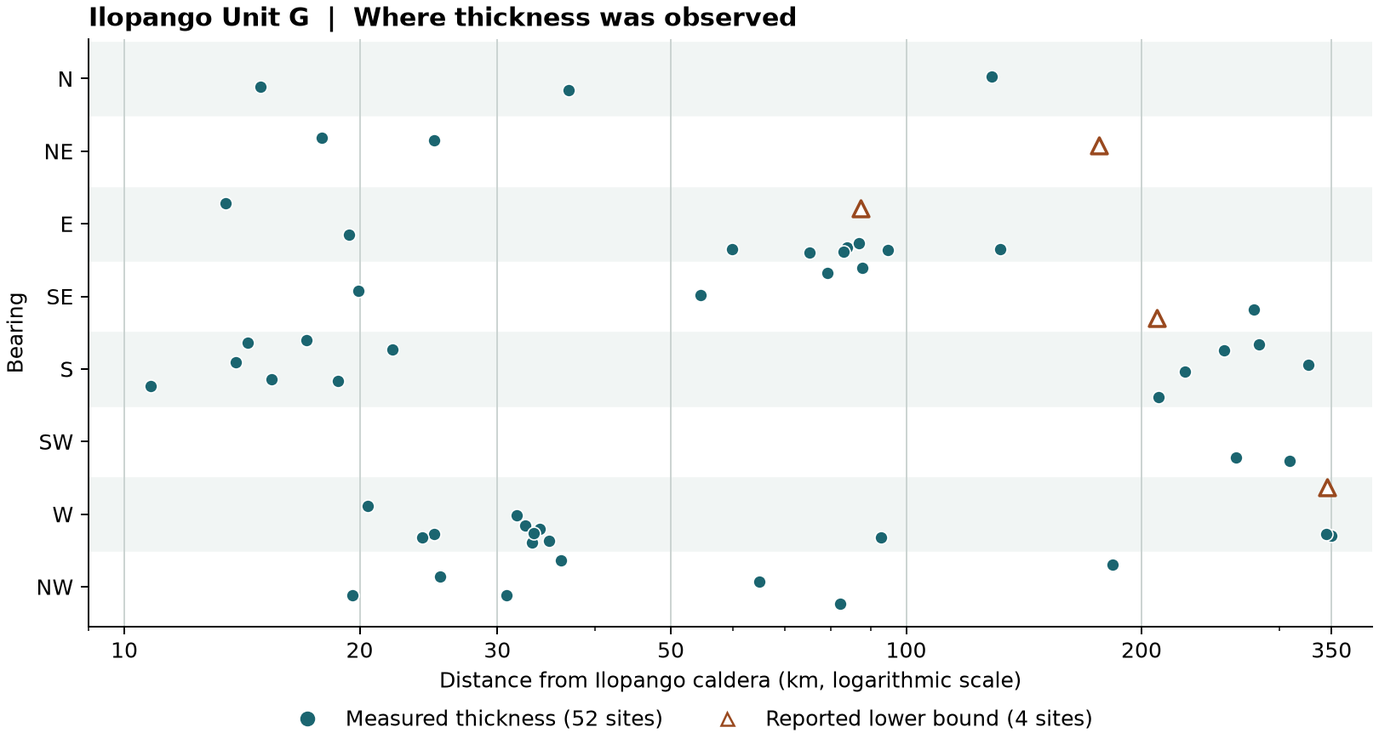
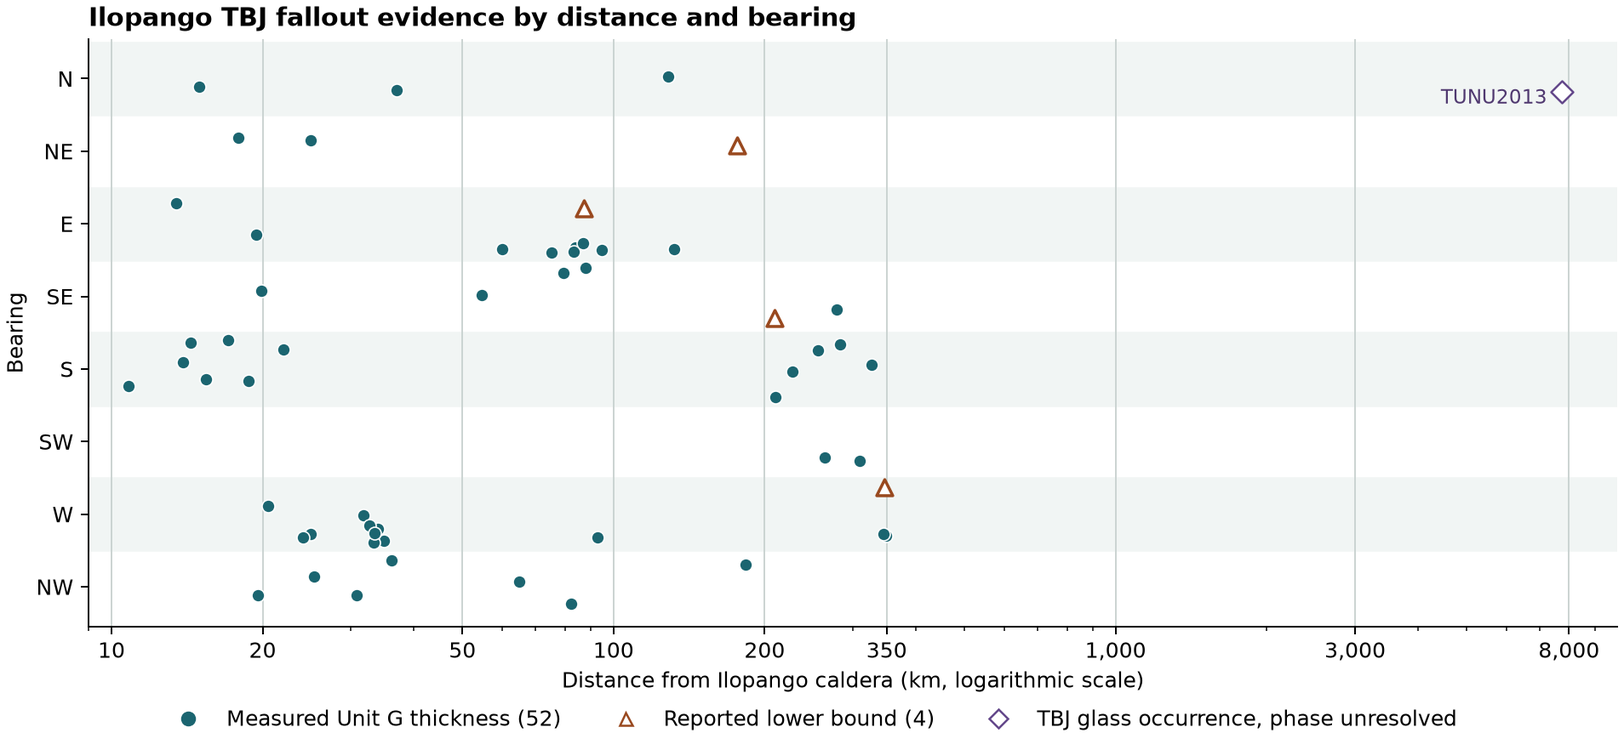
Record the Greenland TBJ occurrence and qualify the Unit G volume interval

diff --git a/benchmarks/ilopango.py b/benchmarks/ilopango.py
@@ -20,6 +20,7 @@ CORES = SOURCES / "smith-2020-cores.csv"
[3 lines of base64/hex data omitted]
+TUNU_LATITUDE, TUNU_LONGITUDE = 78.04, -33.88
 VENT = (-89.053, 13.672)
 GEOD = Geod(ellps="WGS84")
 SECTORS = ("N", "NE", "E", "SE", "S", "SW", "W", "NW")
@@ -106,12 +107,21 @@ def ledger():
                 units_at_section="distal TBJ",total_tbj_cm=core["thickness_cm"],unit_g_cm="",
                 kind="measurement",fitted_cm=core["thickness_cm"],
                 decision="Directly reported distal bed; the authors used it in the co-ignimbrite reconstruction."))
+    rows.append(dict(
+        evidence_id="S20-TUNU2013", source="Smith et al. 2020, polar ice-core results, Fig. 4, Table 2 and Methods",
+        source_row="", site_id="TUNU2013", site="TUNU2013, northeast Greenland", setting="ice core",
+        latitude_as_published=f"{TUNU_LATITUDE} N", longitude_as_published=f"{abs(TUNU_LONGITUDE)} W",
+        latitude=TUNU_LATITUDE, longitude=TUNU_LONGITUDE, units_at_section="TBJ glass, eruptive phase unresolved",
+        total_tbj_cm="", unit_g_cm="", kind="occurrence_only", fitted_cm="",
+        decision="Glass chemistry identifies a TBJ occurrence. The meltwater sample does not resolve the eruptive "
+                 "phase or give bulk ash mass per unit ground area. No Unit G thickness or bound enters the fit.",
+    ))
     for row in rows:
         az, _, metres = GEOD.inv(*VENT, row["longitude"], row["latitude"])
         row["bearing_deg"] = round(az % 360, 4)
         row["distance_km"] = round(metres/1000, 4)
         row["sector"] = SECTORS[int(((az+22.5) % 360)//45)]
-    if len(rows) != 109 or len({r["evidence_id"] for r in rows}) != len(rows):
+    if len(rows) != 110 or len({r["evidence_id"] for r in rows}) != len(rows):
         raise ValueError("Source rows must be unique and exhaustive.")
     return rows
 
@@ -141,7 +151,7 @@ def angular_gap(angles):
 
 def products():
     rows = ledger()
-    accepted = [r for r in rows if r["kind"]]
+    accepted = [r for r in rows if r["kind"] in {"measurement", "lower_limit"}]
     if len({(r["longitude"], r["latitude"]) for r in accepted}) != len(accepted):
         raise ValueError("Repeated accepted coordinates require a site decision.")
     for i, r in enumerate(accepted, 2):
@@ -178,15 +188,14 @@ def products():
 
 
 def verify_manuscript(path):
-    """Read the two published core measurements from the accepted manuscript's text layer."""
+    """Check the two measured beds and the Greenland occurrence against the accepted manuscript."""
     if digest(path) != MANUSCRIPT_HASH:
         raise ValueError("Expected the Oxford accepted manuscript listed in the source guide.")
-    page = subprocess.check_output(
-        ["pdftotext", "-f", "7", "-l", "7", "-layout", str(path.resolve()), "-"], text=True
-    )
+    manuscript = subprocess.check_output(["pdftotext", "-layout", str(path.resolve()), "-"], text=True)
+    text = " ".join(manuscript.split())
     paragraph = re.search(
         r"additional two points where (\d+) cm of ash was recorded in cores: (.+?) \(20\)",
-        " ".join(page.split()),
+        text,
     )
     if paragraph is None:
         raise ValueError("Could not locate the two-core observation.")
@@ -196,6 +205,9 @@ def verify_manuscript(path):
                     for r in csv.DictReader(stream)]
     if len(printed) != 2 or [(*row, paragraph[1]) for row in printed] != recorded:
         raise ValueError("A core coordinate or thickness differs from the published paragraph.")
+    tunu = re.search(r"northeast Greenland \(([\d.]+)[◦°o]N, ([\d.]+)[◦°o]W; 2105 m", text)
+    if tunu is None or (float(tunu[1]), -float(tunu[2])) != (TUNU_LATITUDE, TUNU_LONGITUDE):
+        raise ValueError("TUNU2013 coordinates differ from the ice-core methods.")
 
 
 def coverage_figure():
@@ -204,30 +216,38 @@ def coverage_figure():
 
     with (AUDIT / "selection.csv").open(newline="") as stream:
         rows = [row for row in csv.DictReader(stream) if row["kind"]]
-    fig, ax = plt.subplots(figsize=(9, 4.9), layout="constrained")
+    fig, ax = plt.subplots(figsize=(10.6, 4.9), layout="constrained")
+    counts = Counter(row["kind"] for row in rows)
     for row in rows:
         index = SECTORS.index(row["sector"])
         within_sector = (float(row["bearing_deg"]) - index * 45 + 180) % 360 - 180
-        # Place near-coincident sites at their measured angular offsets.
         y = index + within_sector / 56
-        lower = row["kind"] == "lower_limit"
-        ax.scatter(float(row["distance_km"]), y, s=57 if lower else 36,
-                   marker="^" if lower else "o", facecolor="white" if lower else "#1b6570",
-                   edgecolor="#99491f" if lower else "white", linewidth=1.4 if lower else .65,
-                   zorder=3)
+        distance = float(row["distance_km"])
+        if row["kind"] == "occurrence_only":
+            ax.scatter(distance, y, marker="D", s=54, facecolor="white", edgecolor="#63478a", zorder=3)
+            ax.annotate(row["site_id"], (distance, y), xytext=(-7, -3), textcoords="offset points",
+                        ha="right", va="center", color="#503970", fontsize=9)
+        else:
+            lower = row["kind"] == "lower_limit"
+            ax.scatter(distance, y, s=57 if lower else 36, marker="^" if lower else "o",
+                       facecolor="white" if lower else "#1b6570", edgecolor="#99491f" if lower else "white",
+                       linewidth=1.4 if lower else .65, zorder=3)
     ax.set_xscale("log")
-    ax.set_xticks([10, 20, 30, 50, 100, 200, 350], labels=["10","20","30","50","100","200","350"])
-    ax.set(xlim=(9, 395), ylim=(7.55, -.55), yticks=range(8), yticklabels=SECTORS,
+    ax.set_xticks([10, 20, 50, 100, 200, 350, 1000, 3000, 8000],
+                  labels=["10", "20", "50", "100", "200", "350", "1,000", "3,000", "8,000"])
+    ax.set(xlim=(9, 10000), ylim=(7.55, -.55), yticks=range(8), yticklabels=SECTORS,
            xlabel="Distance from Ilopango caldera (km, logarithmic scale)", ylabel="Bearing")
     ax.grid(axis="x", color="#c9d2d0", linewidth=.75)
     for i in range(0, 8, 2):
         ax.axhspan(i-.5, i+.5, color="#f1f5f4", zorder=0)
     ax.spines[["right","top"]].set_visible(False)
-    ax.set_title("Ilopango Unit G  |  Where thickness was observed", loc="left", weight="bold")
-    handles = [Line2D([], [], ls="", marker="o", color="#1b6570", label="Measured thickness (52 sites)"),
+    ax.set_title("Ilopango TBJ fallout evidence by distance and bearing", loc="left", weight="bold")
+    handles = [Line2D([], [], ls="", marker="o", color="#1b6570", label=f"Measured Unit G thickness ({counts['measurement']})"),
                Line2D([], [], ls="", marker="^", markerfacecolor="white", color="#99491f",
-                      label="Reported lower bound (4 sites)")]
-    fig.legend(handles=handles, loc="outside lower center", ncols=2, frameon=False)
+                      label=f"Reported lower bound ({counts['lower_limit']})"),
+               Line2D([], [], ls="", marker="D", markerfacecolor="white", color="#63478a",
+                      label="TBJ glass occurrence, phase unresolved")]
+    fig.legend(handles=handles, loc="outside lower center", ncols=3, frameon=False)
     fig.savefig(AUDIT / "coverage.png", dpi=180)
     plt.close(fig)
 
@@ -237,7 +257,7 @@ def main():
     parser.add_argument("--prepare",action="store_true",help="Write the four reproducible audit products.")
     parser.add_argument("--figure", action="store_true", help="Draw coverage from the verified site ledger.")
     parser.add_argument("--verify-manuscript", type=Path, metavar="PDF",
-                        help="Check the two distal core readings against the Oxford manuscript.")
+                        help="Check both distal thickness readings and the Greenland site coordinates against the Oxford manuscript.")
     args=parser.parse_args()
     if args.verify_manuscript:
         verify_manuscript(args.verify_manuscript)
@@ -248,7 +268,9 @@ def main():
             raise ValueError(f"Saved file differs from workbook replay: {path.relative_to(ROOT)}")
     if args.figure:
         coverage_figure()
-    print("Verified Ilopango workbook rows, printed core locations, thicknesses, limits and geographic coverage.")
+    print("Verified the Ilopango source ledger, accepted thicknesses and bounds, and geographic coverage.")
+    if args.verify_manuscript:
+        print("Matched both 3 cm beds and the TUNU2013 site coordinates to the Oxford manuscript.")
 
 
 if __name__ == "__main__":

diff --git a/tests/test_report_cartography.py b/tests/test_report_cartography.py
@@ -133,6 +133,23 @@ def test_audited_case_leads_with_matching_fits_then_site_evidence():
     assert "| Uncertain fan direction | Comparable visible fallout beds | 40.7 | 59.0 | 28.5–149.7 |" in section
 
 
+def test_volume_interval_and_geographic_warnings_are_independent(monkeypatch):
+    from src.empirical_isopach.visualization import comparison
+
+    home = Path(__file__).resolve().parents[1] / "eruptions/ilopango-tbj/results"
+    reports = comparison.comparison_reports(home)
+    spherical = reports[2]
+    monkeypatch.setattr(comparison, "comparison_reports", lambda _: reports)
+    for volume_ok, prediction_ok in ((False, True), (True, False)):
+        spherical["fits"]["baseline"]["diagnostics"]["passed"] = volume_ok
+        spherical["validation"]["all_fits_passed_diagnostics"] = prediction_ok
+        section = comparison.comparison_section(home)
+        row = next(line for line in section.splitlines() if line.startswith("| [Spherical mixture]"))
+        _, _, _, interval, score, _, _ = row.split("|")
+        assert ("provisional" in interval) == (not volume_ok)
+        assert ("†" in score) == (not prediction_ok)
+
+
 def test_full_run_opens_with_four_fits_and_retains_regional_detail(tmp_path, monkeypatch):
     from src.empirical_isopach.visualization import comparison
 

diff --git a/src/empirical_isopach/visualization/comparison.py b/src/empirical_isopach/visualization/comparison.py
@@ -257,7 +257,11 @@ def comparison_section(home, *, prefix=""):
     centre = ensemble["volume"]
     volumes = centre["coherent_volume_km3"]
     measured = sum(centre["median_map_parts_by_sector_km3"][0])/centre["median_map_km3"]
-    mixture = spherical["fits"]["baseline"]["volume"]
+    spherical_fit = spherical["fits"]["baseline"]
+    mixture = spherical_fit["volume"]
+    spherical_interval = f"{mixture['lower95']:,.1f}–{mixture['upper95']:,.1f}"
+    if not spherical_fit["diagnostics"]["passed"]:
+        spherical_interval += " **(provisional)**"
     summary = []
     for key, label in REGIONAL.items():
         model = regional["methods"][key]
@@ -274,7 +278,7 @@ def comparison_section(home, *, prefix=""):
          f"{volumes['lower95']:,.1f}–{volumes['upper95']:,.1f}"),
         (f"[Spherical mixture]({prefix}spherical-mixture/README.md)",
          f"Whole-Earth volume median **{mixture['median']:,.1f}**",
-         f"{mixture['lower95']:,.1f}–{mixture['upper95']:,.1f}"),
+         spherical_interval),
     ]
     performance = metrics(regional, ensemble, spherical)
     lines = [

diff --git a/eruptions/ilopango-tbj/README.md b/eruptions/ilopango-tbj/README.md
@@ -1,6 +1,6 @@
 # Ilopango Tierra Blanca Joven, Unit G
 
-The widespread upper co-ignimbrite ash has **52 measured thicknesses and four reported lower bounds**. The sites extend from 11 to 349 km from Ilopango caldera in El Salvador. All four models use the same accepted observations. [Thickness data](../../data/eruptions/Ilopango_TBJ_Unit_G.csv) · [Original sources](../../data/sources/ilopango-tbj/README.md) · [109-row audit and geographic coverage](../../data/audits/Ilopango-TBJ/README.md)
+The widespread upper co-ignimbrite ash has **52 measured thicknesses and four reported lower bounds**. The fitted sites extend from 11 to 349 km from Ilopango caldera in El Salvador. All four models use the same accepted observations. [Thickness data](../../data/eruptions/Ilopango_TBJ_Unit_G.csv) · [Original sources](../../data/sources/ilopango-tbj/README.md) · [Source decisions and geographic coverage](../../data/audits/Ilopango-TBJ/README.md)
 
 ## Four matched thickness-only fits
 
@@ -15,7 +15,7 @@ All four maps use the same frame, contour levels and thickness scale. Thickness 
 | GP ensemble | Hull mean **24.99** | 17.93–33.81 | 1.343 | 98.1% |
 | Cubic spline | Hull mean **26.75** | 22.61–31.55 | 1.462 | 92.3% |
 | [Directional ensemble · uncertain fan direction](results/directional/README.md) | Whole-Earth median map **40.8** · volume median 59.4 | 30.1–384.8 | 1.528 | 92.3% |
-| [Spherical mixture](results/spherical-mixture/README.md) | Whole-Earth volume median **190.9** | 62.9–3,300.8 | 1.225 | 94.2% |
+| [Spherical mixture](results/spherical-mixture/README.md) | Whole-Earth volume median **190.9** | 62.9–3,300.8 **(provisional)** | 1.225 | 94.2% |
 
 A lower negative log predictive score means better prediction across withheld regions. Each region gets equal weight. Coverage is the share of exact held-out observations inside the 95% predictive interval.
 
@@ -58,24 +58,23 @@ The principal fit above uses quantitative thicknesses and bounds. The measured-f
 
 [Measured-fan maps, held-out tests and site evidence](results/directional/bearing/README.md)
 
-
 ## Reading the global uncertainty
 
-The uncertain-direction ensemble gives a **40.8 km³** median map. The median across complete simulated deposits is **59.4 km³**, with a conditional 95% interval of **30.1–384.8 km³**. Measured interpolation triangles account for 3.9% of the median-map volume. The same ensemble with fixed fan directions gives 46.7 km³. All four geographic holdouts were scored. One of four quadrant fits retained a sampling warning. [Directional maps, controls and withheld-site results](results/directional/README.md)
-
-The spherical whole-deposit median is **190.9 km³**, with a provisional conditional 95% interval of **62.9–3,300.8 km³**. Its parent sampler and spatial integration passed their checks. Between two halves of the retained draws the median differed by 0.12% and the upper endpoint by 17.3%, exceeding the 10% tolerance. This limits numerical confidence in the upper tail. Across eight fixed prior fits the medians range from 64.7 to 350.4 km³. [Numerical checks, prior changes and held-out predictions](results/spherical-mixture/README.md)
+Across two halves of the spherical draws, the median changed by 0.12% and the upper interval endpoint by 17.3%. The latter exceeded the 10% numerical tolerance. The parent sampler and spatial integration passed. The medians under the eight prior fits range from 64.7 to 350.4 km³. One directional quadrant fit also retained a sampling warning. [Spherical numerical checks](results/spherical-mixture/README.md) · [Directional holdouts](results/directional/README.md)
 
 ## What the observations constrain
 
 Every 45° compass sector contains at least two measured thicknesses. In the northeast, both measurements lie within 25 km, with a published lower bound at Lake Yojoa 176 km away. In the southwest, both measurements come from marine cores 264–309 km away. The largest gap between measured bearings grows from 37° overall to 107° at distances of at least 50 km. The extent of the ash between these sites depends on the fitted thinning and continuation assumptions. [Distances by bearing](../../data/audits/Ilopango-TBJ/coverage.csv)
 
-![Observed radial coverage for Unit G](../../data/audits/Ilopango-TBJ/coverage.png)
+![Locations of the fitted thicknesses and bounds by distance and bearing, with the Greenland occurrence shown separately](../../data/audits/Ilopango-TBJ/coverage.png)
+
+Smith et al. also identified TBJ glass in the TUNU2013 ice core about 7,755 km from Ilopango. It documents long-distance transport. The core supplies no separate thickness or bound for Unit G. [Ice-core evidence and fitting decision](../../data/audits/Ilopango-TBJ/README.md#greenland-ice-core-occurrence)
 
 The two regional models integrate the same 166,961 km² hull. The standard measured-site support screen covers 15,973 km². It gives expected partial volumes of 1.54 km³ for the GP and 1.52 km³ for the spline. The standard screen accepted no complete isopach band for any of the four models. A full deposit still requires assumptions about the proximal region, gaps and distal continuation. [Support geometry, partial volumes and contour decisions](results/support/README.md)
 
 The workbook distinguishes the final ash layer from earlier falls and from pyroclastic density-current deposits. In the offshore cores, chemistry supports a TBJ correlation more securely than attribution to an individual phase. The 550 cm Unit G value at Istagua and the two adjacent 3 cm distal cores in the west remain in the input. Tazumal's conflicting 20 cm and 40–50 cm reports remain in the audit. [Source decisions](../../data/audits/Ilopango-TBJ/README.md)
 
-Smith et al. estimated **85–188 km³ of bulk co-ignimbrite fallout** with a physical dispersal model that uses overlapping thickness data. Both reconstructions draw on overlapping thickness measurements. The four empirical fits used the thicknesses directly, with the published volume reserved for comparison. [Published dispersal estimate](https://pmc.ncbi.nlm.nih.gov/articles/PMC7584997/)
+Smith et al. estimated **85–188 km³ of bulk co-ignimbrite fallout** with a physical dispersal model. That estimate provides a comparison based on overlapping thickness measurements. All four empirical fits used the site data directly. [Published dispersal estimate](https://pmc.ncbi.nlm.nih.gov/articles/PMC7584997/)
 
 ## Reproduce the calculation
 

diff --git a/data/audits/Ilopango-TBJ/README.md b/data/audits/Ilopango-TBJ/README.md
@@ -4,7 +4,7 @@
 
 ## How an observation enters the fit
 
-The ledger covers all 107 site rows on sheet `Hoja1` of Pedrazzi et al.'s supplement and two additional cores explicitly used by Smith et al. An ID such as `SM1-P85` identifies the source thickness cell. Longitude and latitude come from cells D85 and C85 of the same row. Conversion divides decimal minutes by 60 and makes west longitude negative. Published precision varies by site. The two Smith coordinates are already decimal degrees. The original numbers, unit identifications, fitted values and exclusion reasons are in the ledger. [All 109 source decisions](selection.csv) · [Original spreadsheet](../../sources/ilopango-tbj/pedrazzi-supplement-1.xls) · [Smith et al., Methods](https://pmc.ncbi.nlm.nih.gov/articles/PMC7584997/)
+The ledger covers all 107 site rows on sheet `Hoja1` of Pedrazzi et al.'s supplement, the two additional distal thicknesses used by Smith et al., and their Greenland glass occurrence. An ID such as `SM1-P85` identifies the source thickness cell. Longitude and latitude come from cells D85 and C85 of the same row. Conversion divides decimal minutes by 60 and makes west longitude negative. Published precision varies by site. The two Smith coordinates are already decimal degrees. The original numbers, unit identifications, fitted values and exclusion reasons are in the ledger. [All 110 source decisions](selection.csv) · [Original spreadsheet](../../sources/ilopango-tbj/pedrazzi-supplement-1.xls) · [Smith et al., Methods](https://pmc.ncbi.nlm.nih.gov/articles/PMC7584997/)
 
 | Evidence | Treatment in the principal fit |
 |---|---|
@@ -16,6 +16,10 @@ The ledger covers all 107 site rows on sheet `Hoja1` of Pedrazzi et al.'s supple
 | OC001 and MES001 | Retain the two distinct 3 cm beds using the coordinates printed by Smith et al. Both lie in the western distal area and provide little independent angular leverage. |
 
 The exact readings comprise 40 outcrops, eight marine cores, two lake or pond sites and two additional distal cores. ILO-169 at Istagua has the thickest accepted bed (550 cm). Pedrazzi et al. describe Unit G reaching about 6 m and a transition from Unit F. ILO-303 includes a lahar in the section log and has a separately reported 30 cm Unit G bed. Offshore correlations identify TBJ more securely than any individual pulse. These uncertainties survive transcription and affect interpretation. [Field descriptions and figures](https://doi.org/10.1016/j.jvolgeores.2019.03.006) · [Marine bed correlations](https://doi.org/10.1029/2007GC001631)
+
+### Greenland ice-core occurrence
+
+Smith et al. identified about 14–15 glass shards at TUNU2013 (78.04° N, 33.88° W), about 7,755 km from Ilopango at an initial bearing of 10.5°. The 194.395–194.48 m interval is a depth in the ice. The authors analysed meltwater from a 33 × 33 mm cross-section spanning about 2.5 years. Glass chemistry supports a TBJ origin. The sample does not resolve an individual eruptive phase, and the recovered shard count gives no measured bulk fallout thickness or calibrated bound for Unit G. The ledger records the site as `occurrence_only` with an empty fitted value. Only the 56 quantitative sites enter the fitted hull and the eight-sector counts below. [Original results, Fig. 4, Table 2 and ice-core methods](https://pmc.ncbi.nlm.nih.gov/articles/PMC7584997/)
 
 ## What “all directions” means here
 
@@ -32,10 +36,10 @@ Each 45° compass sector centered on a cardinal or intercardinal bearing contain
 | W | 12 | 1 | 20–349 |
 | NW | 7 | 0 | 20–184 |
 
-![Distances and directions of the measured sites and reported lower bounds](coverage.png)
+![Distance and bearing of the 56 fitted sites and the Greenland glass occurrence](coverage.png)
 
 The largest gap between adjacent measured bearings is 37° across all distances. It grows to 107° for measurements at least 50 km away and 219° beyond 200 km. The two NE measurements are proximal, supplemented by a lower bound 176 km away at Lake Yojoa. The two SW measurements are offshore and leave the intervening sector unsampled. These differences matter when reading a closed contour or a global volume interval.
 
 ## Replay
 
-From the project environment, install the optional original Excel reader with `python -m pip install xlrd==2.0.2`. Run `python -m benchmarks.ilopango` to compare the frozen observations, ledger, sector counts and provenance against the source bytes. With Poppler installed, add `--verify-manuscript path/to/smith-accepted.pdf` to check both core IDs, both reported thicknesses and all four coordinates against the original PDF text. Use `--prepare` to rebuild those four files or `--figure` to redraw the coverage figure. [Audit implementation](../../../benchmarks/ilopango.py)
+From the project environment, install the optional original Excel reader with `python -m pip install xlrd==2.0.2`. Run `python -m benchmarks.ilopango` to compare the frozen observations, ledger, sector counts and provenance against the source bytes. With Poppler installed, add `--verify-manuscript path/to/smith-accepted.pdf` to check the two distal beds and the Greenland core coordinates against the original PDF text. Use `--prepare` to rebuild those four files or `--figure` to redraw the coverage figure. [Audit implementation](../../../benchmarks/ilopango.py)

diff --git a/benchmarks/README.md b/benchmarks/README.md
@@ -10,7 +10,7 @@ For a new case, run the four families with the [intake workflow](../docs/NEW_ERU
 | `python -m benchmarks.directional_ensemble --help` | Fit six structures, calibrate predictive weights, render median fields or run known-volume trials | Fixed-direction comparison |
 | `python -m benchmarks.directional --output results/directional-study --reports results/directional-cases` | Six directional cases, 13 fixed policies and geographic/quadrant holdouts; full stress/replication sequence in the [study](../comparisons/directional/single-structure/README.md#reproduce) | Single-structure directional sensitivity |
 | `python -m benchmarks.directional_comparison --help` | Assemble matched global comparisons from completed cases, stress trials and replications | Both global families |
-| `python -m benchmarks.regional --output results/regional-methods` | Current six-eruption matched regional fits, nested geographic validation and 40 known-truth attempts | GP ensemble and automatic cubic spline |
+| `python -m benchmarks.regional --output results/regional-methods` | Matched regional fits for every registered eruption, nested geographic validation and 40 known-truth attempts | GP ensemble and automatic cubic spline |
 | `python -m benchmarks.global_posterior --output results/global-posterior` | Fit the registered cases with bearing continuation, seven prior sensitivities and matched geographic holdouts, then build the spherical comparison | Spherical mixture; reviewed geometry per case |
 | `python -m benchmarks.source_fans --output results/source-stress` | Twelve source-focused trials with seeds 20/21, including shape violations and hidden mass, plus two diffuse-tail alternatives | Source-focused ellipses |
 | `python -m benchmarks.source_stress_report --source results/source-stress --output results/source-stress-report` | Publish every declared source-focused trial, preserving failed attempts and normalization refinements | Reports the source-focused stress cache |
@@ -39,7 +39,7 @@ Replay the contour screens directly from the published spherical fits with `pyth
 | `python -m benchmarks.verify_btm_cryptotephra` | Current B-Tm profile integrals, upper-limit identities, four fitted families, matched holdouts and archive-response sensitivity volumes |
 | `python -m benchmarks.verify_btm_audit` | Archived 68-site B-Tm fits, folds, four source sensitivities and thinning experiments |
 | `python -m benchmarks.verify_bearing_continuation` | Archived 68-site measured-fan and inspected-site tests, sector volumes and the independent spherical update |
-| `python -m benchmarks.verify_directional` | The six current directional fits and their 78 policy runs, plus the original study’s independent replications and known-volume trials |
+| `python -m benchmarks.verify_directional` | The 13 directional policies for each registered eruption, plus the original study’s independent replications and known-volume trials |
 | `python -m benchmarks.verify_directional_ensemble` | Earlier fixed-direction maps and complete-field volumes, geographic predictions and the published simulation trials |
 | `python -m benchmarks.verify_aso_evidence` | Aso-4 source records, matched validation and posterior attempts |
 | `python -m benchmarks.verify_visuals` | Published file hashes, current cross-eruption tables and four-panel maps |
@@ -64,7 +64,8 @@ Start with the [Aso-4 study's complete reproduction sequence](../comparisons/aso
 
 `python -m benchmarks.aso_diagnosis` uses the required pre-audit posterior in [the study reference](../comparisons/aso-4-audit/reference/README.md). `python -m benchmarks.verify_aso_evidence` checks that reference, current source hashes, matched validation and all retained posterior attempts without writing tracked files. Use `--output results/verification.json` to save a fresh record.
 
+## Verify the source tables
 
-## Verify the Minoan and YTT source tables
+Run `python -m benchmarks.ilopango` to verify Unit G thicknesses, bounds, the source ledger and angular coverage. Supply `--verify-manuscript PATH` to check the distal core readings and Greenland coordinates against the accepted manuscript. [Ilopango source audit](../data/audits/Ilopango-TBJ/README.md)
 
 Run `python -m benchmarks.minoan` or `python -m benchmarks.ytt` to verify the published inputs against their workbooks. Both commands check the principal selection and four alternatives. Add `--prepare-only` to rebuild the reviewed tables and provenance. Fit either eruption with the ordinary `tephra-isopachs compare` command. [Minoan audit](../data/audits/Minoan/README.md) · [YTT audit](../data/audits/YTT/README.md)

diff --git a/docs/VALIDATION.md b/docs/VALIDATION.md
@@ -9,8 +9,8 @@ Numerical correctness, predictive skill, uncertainty coverage and geological evi
 | Solver and probability tests | Do likelihoods, covariance, normalization, geometry and numerical calculations match reference cases? | [Test catalogue](../tests/README.md) |
 | Regional geographic holdouts | How well does the entire tuned GP/spline procedure predict withheld regions? | [Regional comparison](../comparisons/regional/README.md) and each case's held-out rows |
 | Matched geographic prediction | How do both regional and both global methods predict withheld locations? | [Four-method comparison](../comparisons/README.md) |
-| Principal spherical mixture | How do finite measured bearings affect false extent, missed fans and global volume? | [Six paired real fits and 24 known-volume fits](../comparisons/spherical-mixture/README.md) |
-| Principal directional ensemble | How do uncertain and fixed fan directions compare on the same regions, whole quadrants and simulated sampling gaps? | [Six paired fits and 14 simulated deposits](../comparisons/directional/README.md) |
+| Principal spherical mixture | How do finite measured bearings affect false extent, missed fans and global volume? | [Registered cases and 24 known-volume fits](../comparisons/spherical-mixture/README.md) |
+| Principal directional ensemble | How do uncertain and fixed fan directions compare on the same regions, whole quadrants and simulated sampling gaps? | [Registered cases and 14 simulated deposits](../comparisons/directional/README.md) |
 | Earlier fixed-direction ensemble | How do the weighted structures perform against equal weights and a single structure, and how often do simulated volume intervals cover truth? | [Six eruptions and 14 known-deposit trials](../comparisons/directional/fixed-ensemble/README.md) |
 | Single-structure directional sensitivities | What happens when a whole direction, proximal cap or hidden fan is unobserved? | [28 trials, independent replications and limitations](../comparisons/directional/single-structure/README.md) |
 | Regional known-truth trials | How do prediction, integral error and conditional coverage behave under declared synthetic scenarios? | [Regional trial record](../comparisons/regional/synthetic/README.md) |
@@ -20,6 +20,6 @@ Numerical correctness, predictive skill, uncertainty coverage and geological evi
 
 Read execution dates, input hashes, model geometry, priors and status. The original 40 regional trial attempts remain a development record; revising an eruption's source data does not turn those trials into new independent validation. Failed attempts and undercoverage must remain visible.
 
-`python -m pytest -q` and `python scripts/check_repository_navigation.py` check the current code and navigation. `python -m benchmarks.verify_aso_evidence` verifies the published Aso-4 data, matched folds, posterior checksums and retained reference without rewriting its report. `python -m benchmarks.verify_directional` checks six published cases, 78 policy fits, six independent replications and 28 known-volume trials. `python -m benchmarks.verify_azimuth_continuation` replays the principal fields, volumes, held-out coverage and archive assumptions. `python -m benchmarks.verify_directional_ensemble` checks the earlier fixed-direction calibration and its 14 simulations. [Reproduction commands](../benchmarks/README.md).
+`python -m pytest -q` and `python scripts/check_repository_navigation.py` check the current code and navigation. `python -m benchmarks.verify_aso_evidence` verifies the published Aso-4 data, matched folds, posterior checksums and retained reference without rewriting its report. `python -m benchmarks.verify_directional` checks 13 policies per registered eruption, six independent original-study replications and 28 known-volume trials. `python -m benchmarks.verify_azimuth_continuation` replays the principal fields, volumes, held-out coverage and archive assumptions. `python -m benchmarks.verify_directional_ensemble` checks the earlier fixed-direction calibration and its 14 simulations. [Reproduction commands](../benchmarks/README.md).
 
 Historical test counts and scientific statements describe the runs that produced them. [Older studies in Git history](../CHANGELOG.md#earlier-results) are not the default evidence for current method performance.

diff --git a/data/sources/ilopango-tbj/README.md b/data/sources/ilopango-tbj/README.md
@@ -10,7 +10,7 @@ The source audit reads the original spreadsheet cells. Columns C and D give nort
 
 *The magnitude and impact of the 431 CE Tierra Blanca Joven eruption of Ilopango, El Salvador.* The authors give the coordinates of cores OC001 and MES001 and report a 3 cm bed at each in Methods, “Ash Dispersal Modeling”. They attribute these readings to Neff and Sheets and use them for the co-ignimbrite dispersal calculation. The CSV transcribes the two numerical records at the precision printed in that paragraph. [Methods](https://pmc.ncbi.nlm.nih.gov/articles/PMC7584997/) · [Two core records](smith-2020-cores.csv)
 
[2 lines of base64/hex data omitted]
 
 Kutterolf et al. correlate marine bed C1 with TBJ. Pedrazzi et al. place the associated offshore measurements in column P. Offshore thickness can reflect bed preservation and the distal correlation alone cannot resolve individual eruption pulses. The regional calculations use the authors’ assignment. [Marine stratigraphy, Table 1](https://doi.org/10.1029/2007GC001631)
 

diff --git a/eruptions/README.md b/eruptions/README.md
@@ -6,7 +6,7 @@ Choose an eruption for its accepted observations, four volume estimates, maps an
 |---|---:|---:|---|---|
 | [Aso-4](aso-4/README.md) | **659.1** | **1,069.7** | 83 exact, 3 lower bounds, 1 upper bound | Reviewed cruise positions and bounds. Marine sampling leaves the source region and several bearings poorly constrained. |
 | [B-Tm](b-tm/README.md) | **33.6** | **47.0** | 64 measurements, 3 reported lower bounds, 1 reported and 3 interpreted upper bounds | Combined fallout. Lake shard profiles and a peat mass budget constrain the contours. |
-| [Ilopango TBJ, Unit G](ilopango-tbj/README.md) | **40.8** | **190.9** | 52 measurements, 4 lower bounds | Co-ignimbrite fallout. The northeast lacks distal exact thicknesses and the southwest lacks proximal ones. |
+| [Ilopango TBJ, Unit G](ilopango-tbj/README.md) | **40.8** | **190.9** | 52 measurements, 4 lower bounds | Unit G co-ignimbrite fallout. The spherical upper interval is provisional. Northeast measurements are proximal and southwest measurements are distal. |
 | [Mazama](mazama/README.md) | **166.1** | **212.9** | 45 exact | The published calculation uses the supplied acceptance flags. |
 | [Minoan](minoan/README.md) | **28.8** | **40.8** | 92 exact, 9 lower bounds | All accepted Plinian and co-ignimbrite fallout fans form one deposit. |
 | [Tambora](tambora/README.md) | **95.7** | **162.3** | 26 exact | Four of six full-data directional fits carry a numerical warning. |

diff --git a/docs/methods/README.md b/docs/methods/README.md
@@ -22,7 +22,7 @@ The measured-fan sensitivity follows sampled bearings. Earlier experiments isola
 
 ## Spherical mixture
 
-The principal spherical field integrates the retained kernel mass along measured and uncertain bearings over the Earth. The reported volume median and conditional interval use complete deposits. Fixed changes to the priors and fan geometry produce a separate sensitivity envelope. B-Tm uses source-focused fans. The catalogue identifies the geometry used in each case. [Finite bearing reach and uncertain continuation](spherical-bearings.md) · [Likelihood, priors and numerical checks](probabilistic-global.md) · [Source-focused fans](source-anchored-fans.md) · [Six-eruption estimates](../../comparisons/spherical-mixture/README.md)
+The principal spherical field integrates the retained kernel mass along measured and uncertain bearings over the Earth. The reported volume median and conditional interval use complete deposits. Fixed changes to the priors and fan geometry produce a separate sensitivity envelope. B-Tm uses source-focused fans. The catalogue identifies the geometry used in each case. [Finite bearing reach and uncertain continuation](spherical-bearings.md) · [Likelihood, priors and numerical checks](probabilistic-global.md) · [Source-focused fans](source-anchored-fans.md) · [Estimates by eruption](../../comparisons/spherical-mixture/README.md)
 
 ## Interpreting the maps
 

diff --git a/docs/methods/probabilistic-global.md b/docs/methods/probabilistic-global.md
@@ -8,7 +8,7 @@ A second whole-Earth model continues measured isopach fragments with directional
 
 Protocol: `mass-normalized-spherical-mixture-v1`, introduced in 0.10. The proposed empirical model estimates **bulk fallout volume**, jointly across accepted fallout fans. It is a research implementation, not a validated physical transport model. Its priors are the same for all eruptions; no wind field, umbrella dynamics, grain-size distribution or published target volume is supplied.
 
-**Version 0.11 adds a source-focused alternative and adopts it for B-Tm after the contour review.** This page documents the preceding displaced geometry, retained for the other five cases; it no longer describes one common geometry for all six published results. See the [source-focused equations](source-anchored-fans.md) and the [B-Tm correction and unresolved Aso-4 comparison](../../comparisons/source-revision/README.md).
+Version 0.11 adopted source-focused kernels for B-Tm after its contour review. This page gives the default displaced geometry. Each case records its chosen kernel geometry. [Source-focused equations](source-anchored-fans.md) · [B-Tm correction and Aso-4 comparison](../../comparisons/source-revision/README.md)
 
 ## Why the old screen cannot decide whether to give a global estimate
 

diff --git a/docs/QUICKSTART.md b/docs/QUICKSTART.md
@@ -26,7 +26,7 @@ Use `compare --regional-only` for the regional pair. The separate `global` comma
 
 Before preparing a new input or revising an existing one, review real sites that lack measured thickness. Include source-supported upper or lower limits in the common input and document decisions for the remaining sites. The calculation uses the reviewed CSV and its audit. [Site review before fitting](methods/sites-without-measured-thickness.md)
 
-The catalogue selects source-focused spherical kernels for B-Tm and displaced kernels for the other five cases. Both geometries use the current bearing continuation. The earlier broad control is saved within the same fit at `bearing/parent-report.json`. [B-Tm source audit and fits](../eruptions/b-tm/README.md) · [Spherical protocol](methods/spherical-bearings.md)
+The default spherical geometry uses displaced kernels. The catalogue specifies source-focused kernels for B-Tm. Both geometries use the current bearing continuation. The earlier broad control is saved within the same fit at `bearing/parent-report.json`. [B-Tm source audit and fits](../eruptions/b-tm/README.md) · [Spherical protocol](methods/spherical-bearings.md)
 
 ## Find results and verify a run
 
